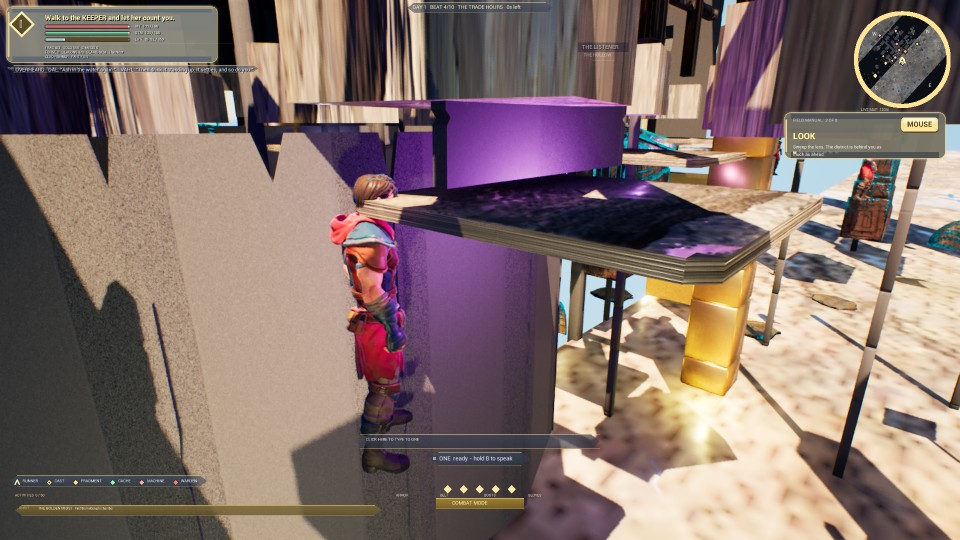
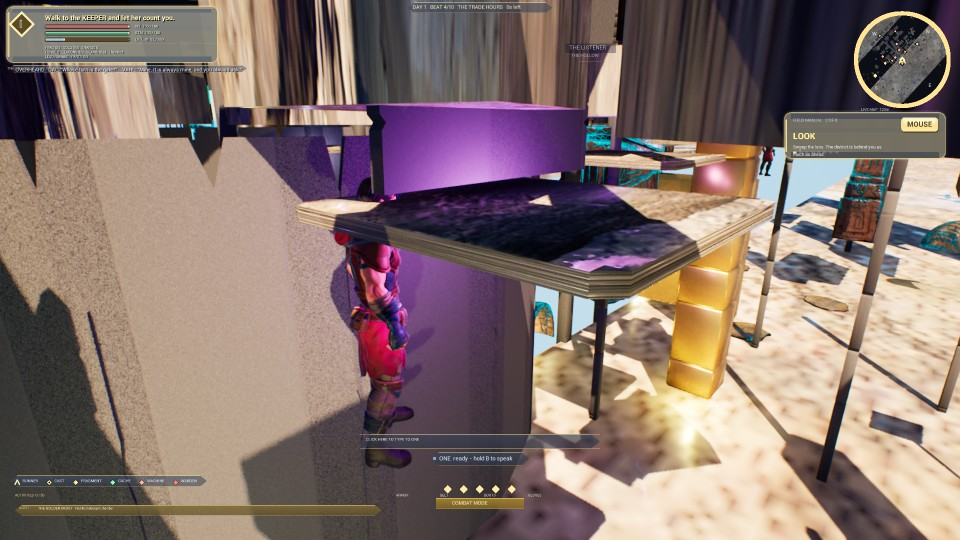
Move the sanctum's water feature out of the spawn sightline
The fall stood at X=0 with a deep-blue surface at deck height, and that slab
with a black glossy top was the purple block filling the first frame - water
rendered where a building belongs. It now sits west of the plaza and below the
deck, so the street reads as architecture instead of a sheet.

Generated with Codebuff

diff --git a/Source/VEIL/Private/World/VEILNestSanctum.cpp b/Source/VEIL/Private/World/VEILNestSanctum.cpp
@@ -313,8 +313,13 @@ bool AVEILNestSanctum::BuildSanctum()
 	// ---- THE FALL OF WATER ----------------------------------------------------
 	if (Water)
 	{
-		SpawnPiece(Cube, FVector(0.f, 1500.f, DeckZ - 620.f), FVector(620.f, 24.f, 1240.f), Water, false);
-		SpawnPiece(Cube, FVector(0.f, 1520.f, DeckZ - 1240.f), FVector(700.f, 200.f, 40.f), Water, false);
+		// THE FALL MOVED OFF THE STREET AND BELOW THE DECK.
+		// It stood at X=0 on the spawn sightline with a deep-blue surface at deck height, which is
+		// the purple slab with a black top that filled the first frame - water rendered where a
+		// building should be reads as a placeholder no matter what it is made of. It is now west
+		// of the plaza and sunk under the deck, so it is a channel you find, not a wall you face.
+		SpawnPiece(Cube, FVector(-2600.f, 1500.f, DeckZ - 900.f), FVector(620.f, 24.f, 1240.f), Water, false);
+		SpawnPiece(Cube, FVector(-2600.f, 1520.f, DeckZ - 1520.f), FVector(700.f, 200.f, 40.f), Water, false);
 	}
 
 	bBuilt = true;
